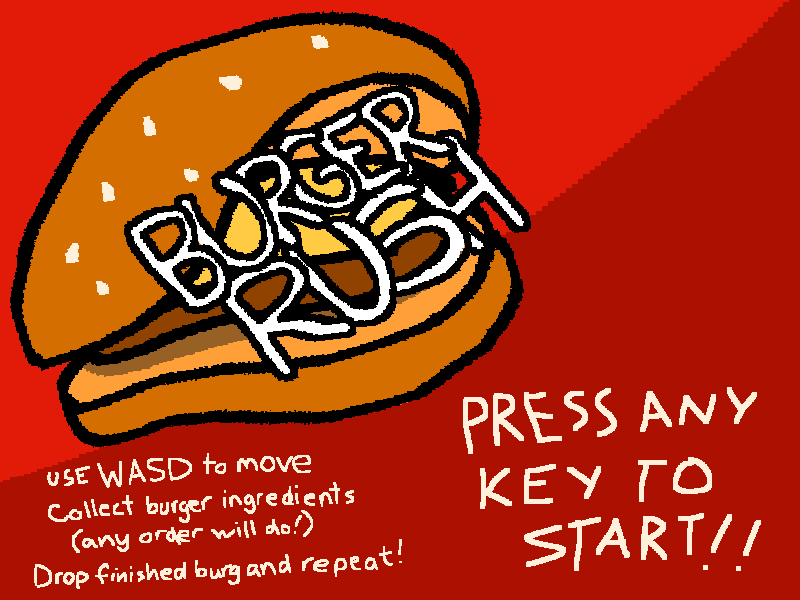
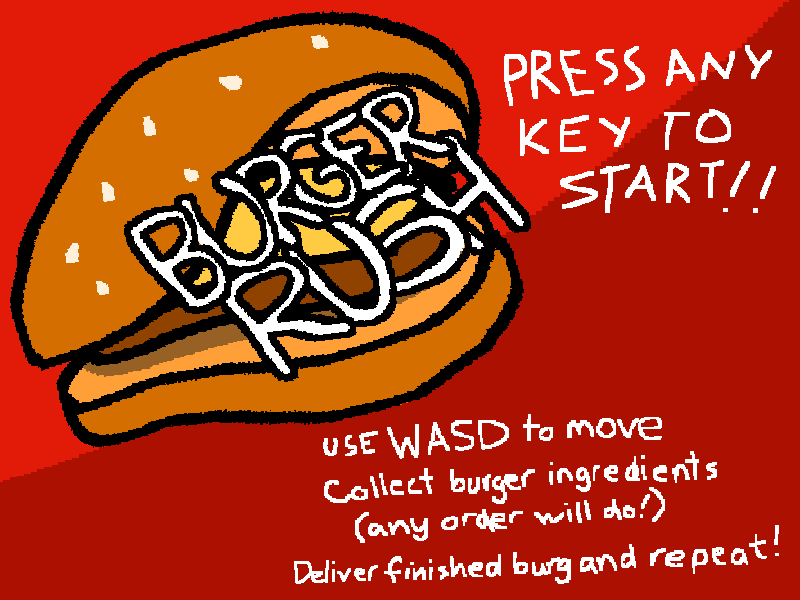
adjust title screen and add music credit to page

diff --git a/js/game-state.js b/js/game-state.js
@@ -24,54 +24,54 @@ const music = document.getElementById('music')
 const gameStateManager = () => {
     // scope variables
     // declaring image objects for the game art
-        ///////////////////////////////////////////
-        canvas.style.backgroundColor = '#475aa1'
-        let playerImage = new Image()
-        playerImage.src = 'imgs/chef.png'
-        let wallImage = new Image()
-        wallImage.src = 'imgs/kitchen_counter.png'
-        let genImage = new Image()
-        genImage.src = 'imgs/gen_generic.png'
-        let scorImage = new Image()
-        scorImage.src = 'imgs/scorer.png'
-        let trashImage = new Image()
-        trashImage.src = 'imgs/trash_can.png'
-        let ingTomato = new Image()
-        ingTomato.src = 'imgs/ing_tomato.png'
-        let ingCheese = new Image()
-        ingCheese.src = 'imgs/ing_cheese.png'
-        let ingBurg = new Image()
-        ingBurg.src = 'imgs/ing_burgpatty.png'
-        let ingOnion = new Image()
-        ingOnion.src = 'imgs/ing_onion.png'
-        let ingPickles = new Image()
-        ingPickles.src = 'imgs/ing_pickles.png'
-        let ingLettuce = new Image()
-        ingLettuce.src = 'imgs/ing_lettuce.png'
-        let stackTomato = new Image()
-        stackTomato.src = 'imgs/stack_tomato.png'
-        let stackCheese = new Image()
-        stackCheese.src = 'imgs/stack_cheese.png'
-        let stackBurg = new Image()
-        stackBurg.src = 'imgs/stack_burg.png'
-        let stackLettuce = new Image()
-        stackLettuce.src = 'imgs/stack_lettuce.png'
-        let stackOnion = new Image()
-        stackOnion.src = 'imgs/stack_onion.png'
-        let stackPickles = new Image()
-        stackPickles.src = 'imgs/stack_pickles.png'
-        let bunBot = new Image()
-        bunBot.src = 'imgs/bun_bot.png'
-        let bunTop = new Image()
-        bunTop.src = 'imgs/bun_top.png'
-        let uiGameOver = new Image()
-        uiGameOver.src = 'imgs/gameOver.png'
-        let titleScreen = new Image()
-        titleScreen.src = 'imgs/title_screen.png'
-        let resultsScreen = new Image()
-        resultsScreen.src = 'imgs/results_screen.png'
-        //////////////////////////////////////////
-        //////////end of asset list///////////////
+    ///////////////////////////////////////////
+    canvas.style.backgroundColor = '#475aa1'
+    let playerImage = new Image()
+    playerImage.src = 'imgs/chef.png'
+    let wallImage = new Image()
+    wallImage.src = 'imgs/kitchen_counter.png'
+    let genImage = new Image()
+    genImage.src = 'imgs/gen_generic.png'
+    let scorImage = new Image()
+    scorImage.src = 'imgs/scorer.png'
+    let trashImage = new Image()
+    trashImage.src = 'imgs/trash_can.png'
+    let ingTomato = new Image()
+    ingTomato.src = 'imgs/ing_tomato.png'
+    let ingCheese = new Image()
+    ingCheese.src = 'imgs/ing_cheese.png'
+    let ingBurg = new Image()
+    ingBurg.src = 'imgs/ing_burgpatty.png'
+    let ingOnion = new Image()
+    ingOnion.src = 'imgs/ing_onion.png'
+    let ingPickles = new Image()
+    ingPickles.src = 'imgs/ing_pickles.png'
+    let ingLettuce = new Image()
+    ingLettuce.src = 'imgs/ing_lettuce.png'
+    let stackTomato = new Image()
+    stackTomato.src = 'imgs/stack_tomato.png'
+    let stackCheese = new Image()
+    stackCheese.src = 'imgs/stack_cheese.png'
+    let stackBurg = new Image()
+    stackBurg.src = 'imgs/stack_burg.png'
+    let stackLettuce = new Image()
+    stackLettuce.src = 'imgs/stack_lettuce.png'
+    let stackOnion = new Image()
+    stackOnion.src = 'imgs/stack_onion.png'
+    let stackPickles = new Image()
+    stackPickles.src = 'imgs/stack_pickles.png'
+    let bunBot = new Image()
+    bunBot.src = 'imgs/bun_bot.png'
+    let bunTop = new Image()
+    bunTop.src = 'imgs/bun_top.png'
+    let uiGameOver = new Image()
+    uiGameOver.src = 'imgs/gameOver.png'
+    let titleScreen = new Image()
+    titleScreen.src = 'imgs/title_screen.png'
+    let resultsScreen = new Image()
+    resultsScreen.src = 'imgs/results_screen.png'
+    //////////////////////////////////////////
+    //////////end of asset list///////////////
     // score
     let score = 0
     // push score to DOM
@@ -101,7 +101,6 @@ const gameStateManager = () => {
         // set timeout for timer to clear its interval when it hits zero
         setTimeout(() => {
             clearInterval(timerID)
-            // console.log(`time's up`)
             return timer
         }, timer * 1000)
     }
@@ -120,7 +119,7 @@ const gameStateManager = () => {
 /////////////////////////////////////////////////////////////////////////////////////////////////////////////////////
     // titleManager function that starts interval when game state runs
     const titleManager = () => {
-        console.log(`titleManager running`)
+        // console.log(`titleManager running`)
         music.setAttribute('src', '')
         ctxTarget.clearRect(0, 0, objectiveWindow.width, objectiveWindow.height)
         // setInterval for anonymous title manager that is saved to a variable and starts immediately
@@ -513,5 +512,5 @@ const gameStateManager = () => {
 // event listener to run gameStateManager when DOM loads
 document.addEventListener('DOMContentLoaded', () => {
     gameStateManager()
-    console.log(`gameStateManager running`)
+    // console.log(`gameStateManager running`)
 })

diff --git a/css/style.css b/css/style.css
@@ -1,7 +1,11 @@
 body {
-    background-color: gray;
+    background-color: black;
     display: flex;
+    flex-direction: column;
+    align-items: center;
     justify-content: center;
+    font-family: Helvetica, sans-serif;
+    color: white
 }
 
 #canvas {
@@ -55,6 +59,7 @@ p {
     border: 2px solid rgb(153, 10, 10);
     background-color: rgb(173, 173, 102);
     font-family: 'Press Start 2P', cursive;
+    color: black;
     display: flex;
     flex-direction: column;
     justify-content: space-evenly;

diff --git a/index.html b/index.html
@@ -26,6 +26,7 @@
                 <canvas id="canvas"></canvas>
             </main>
         </div>
+        <div style="margin: 2px">Music "Winning The Race" courtesy of Psychronic Game Studios via OpenGameArt.org</div>
         <script src="js/game-state.js" defer></script>
     </body>
 </html>
